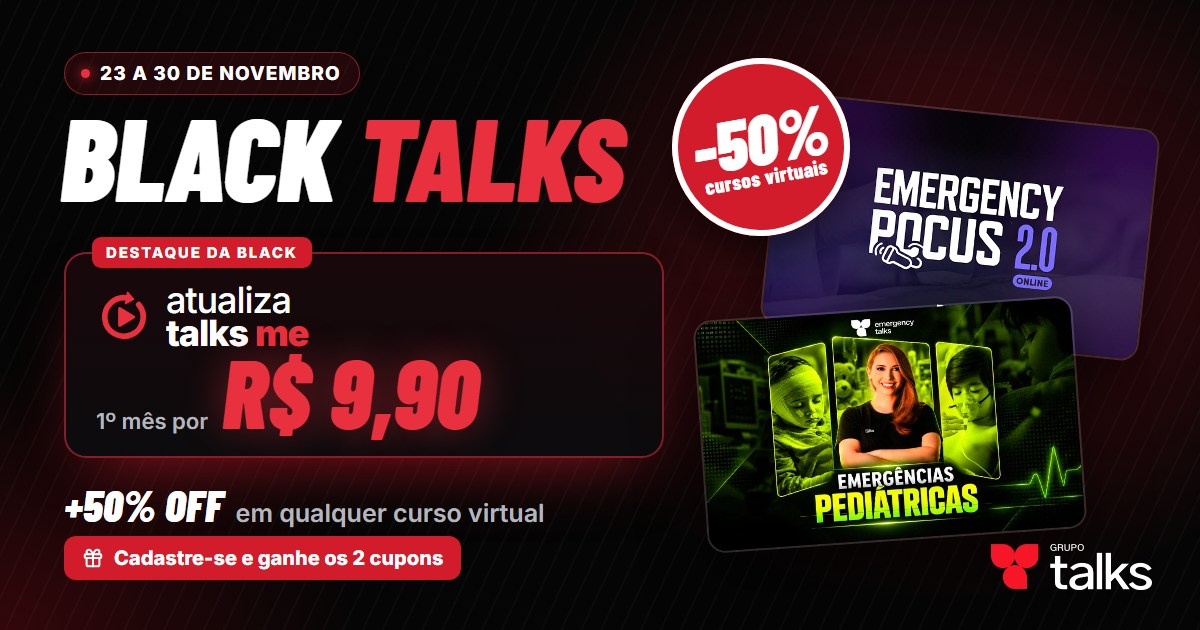
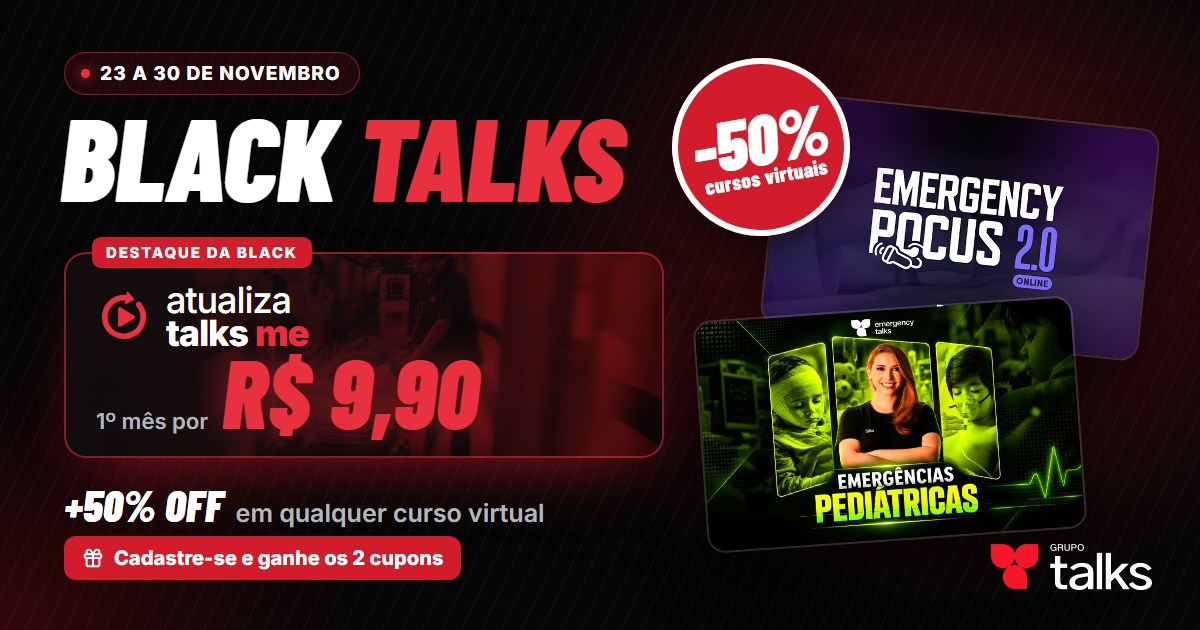
Foto do Atualiza Talks ME por trás de tudo que fala do Atualiza
Corredor de emergência em vermelho (img/atualiza-corredor.webp) no banner do
carrossel, na seção do Atualiza, no cupom do presente e do pop-up, na roleta
(seção, banner e topo do roleta.html) e nas imagens de compartilhamento.

Changed region(s): [[0.2467, 0.3921, 0.555, 0.7238], [0.185, 0.6937, 0.2158, 0.7238]]

diff --git a/index.html b/index.html
@@ -21,6 +21,8 @@
 <link href="https://fonts.googleapis.com/css2?family=Barlow+Condensed:ital,wght@0,600;0,700;0,800;0,900;1,800;1,900&family=Inter:wght@400;500;600;700;800&display=swap" rel="stylesheet" />
 <style>
 :root{
+  /* foto do Atualiza Talks ME (corredor de emergência em vermelho): vai por trás de tudo que fala do Atualiza */
+  --foto-at:url(img/atualiza-corredor.webp);
   --bg:#050505;
   --bg2:#0B0B0D;
   --surface:#121214;
@@ -179,7 +181,7 @@ body.ganhou .bar-cup{display:inline-flex}
 .car-dots button[aria-current=true]{width:28px;background:var(--red-hi)}
 
 /* banner do Atualiza Talks (feito em código, mesma proporção 700x430) */
-.atb{position:absolute;inset:0;container-type:inline-size;background:radial-gradient(120% 90% at 85% 50%,#4A0610 0%,#16070A 45%,#050505 75%);overflow:hidden}
+.atb{position:absolute;inset:0;container-type:inline-size;background:linear-gradient(90deg,rgba(5,5,5,.9) 0%,rgba(5,5,5,.62) 50%,rgba(5,5,5,.3) 100%),var(--foto-at) 60% 45%/cover no-repeat,#050505;overflow:hidden}
 .atb::before{content:'';position:absolute;inset:0;background:repeating-linear-gradient(115deg,rgba(255,255,255,.035) 0 2px,transparent 2px 18px)}
 .atb-in{position:absolute;inset:0;display:grid;grid-template-columns:1fr auto;align-items:center;gap:4cqw;padding:0 7cqw}
 .atb-brand{display:flex;align-items:center;gap:3cqw}
@@ -268,6 +270,7 @@ h2{font-family:var(--display);font-weight:900;font-style:italic;text-transform:u
 .tk-v span{font-size:1.5rem}
 .tk-v small{font-size:1.15rem;font-style:normal;font-weight:800;letter-spacing:.04em}
 .tk-r{display:flex;flex-direction:column;justify-content:center;gap:10px;padding:14px 18px 14px 20px;min-width:0}
+.tk-at .tk-r{background:linear-gradient(90deg,rgba(11,11,13,.95) 0%,rgba(11,11,13,.82) 55%,rgba(11,11,13,.5) 100%),var(--foto-at) 50% 42%/cover no-repeat}
 .tk-t b{display:block;color:#fff;font-weight:800;font-size:1.04rem;line-height:1.25}
 .tk-t span{display:block;margin-top:2px;color:var(--dim);font-size:.84rem;line-height:1.35}
 .tk-c{display:flex;align-items:center}
@@ -326,6 +329,7 @@ body.ganhou .tk{border-color:rgba(232,48,63,.6);box-shadow:0 20px 50px -24px rgb
 .prb-tk{display:grid;grid-template-columns:15cqw 1fr;height:13cqw;border-radius:2.4cqw;overflow:hidden;background:#0B0B0D;border:.3cqw solid rgba(255,255,255,.18);box-shadow:0 3cqw 6cqw rgba(0,0,0,.5)}
 .prb-tk:first-child{transform:rotate(-5deg) translateX(-2cqw)}
 .prb-tk:last-child{transform:rotate(3deg) translateX(2cqw)}
+.prb-tk:last-child > i{background:linear-gradient(90deg,rgba(11,11,13,.92) 0%,rgba(11,11,13,.6) 100%),var(--foto-at) 50% 42%/cover no-repeat}
 .prb-tk > span{display:flex;flex-direction:column;align-items:center;justify-content:center;background:linear-gradient(160deg,var(--red-hi),var(--red-deep));color:#fff;font-family:var(--display);font-weight:900;font-style:italic;line-height:.85;border-right:.4cqw dashed rgba(5,5,5,.55)}
 .prb-tk > span b{font-size:5.6cqw}
 .prb-tk > span small{font-size:2.3cqw;font-style:normal;font-weight:800}
@@ -355,9 +359,9 @@ body.ganhou .tk{border-color:rgba(232,48,63,.6);box-shadow:0 20px 50px -24px rgb
 /* destaque do Atualiza (vem antes dos cursos) */
 .at-sec{padding-top:clamp(50px,6vw,90px)}
 .at-sec .at-box{border:2px solid rgba(232,48,63,.65);padding-top:clamp(56px,6vw,76px);
-  background:radial-gradient(70% 90% at 100% 0%,rgba(211,28,43,.42),transparent 60%),radial-gradient(60% 80% at 0% 100%,rgba(158,10,22,.35),transparent 60%),linear-gradient(180deg,#151517,#0A0A0B);
+  background:linear-gradient(90deg,rgba(10,10,11,.94) 0%,rgba(10,10,11,.8) 45%,rgba(10,10,11,.42) 100%),var(--foto-at) 62% 45%/cover no-repeat,#0A0A0B;
   box-shadow:0 50px 120px -50px rgba(211,28,43,.75),0 0 0 8px rgba(211,28,43,.07)}
-.at-sec .at-box::after{width:520px;height:520px;right:-90px;bottom:-120px}
+.at-sec .at-box::after{display:none}
 .at-flag{position:absolute;top:0;left:50%;transform:translateX(-50%);display:inline-flex;align-items:center;gap:8px;padding:9px 20px;border-radius:0 0 14px 14px;background:var(--red);color:#fff;font-size:.8rem;font-weight:800;letter-spacing:.14em;text-transform:uppercase;white-space:nowrap;z-index:2}
 .at-flag .i{width:14px;height:14px}
 .at-sec .at-brand svg{width:64px;height:64px}
@@ -372,7 +376,7 @@ body.ganhou .tk{border-color:rgba(232,48,63,.6);box-shadow:0 20px 50px -24px rgb
 
 /* ===== Roleta ===== */
 .rl-box{position:relative;display:grid;grid-template-columns:minmax(0,1.1fr) minmax(0,.9fr);gap:clamp(28px,4vw,60px);align-items:center;padding:clamp(28px,4.4vw,60px);border-radius:28px;overflow:hidden;
-  background:radial-gradient(80% 110% at 85% 50%,rgba(211,28,43,.4),transparent 60%),linear-gradient(180deg,#141416,#0A0A0B);border:1px solid rgba(232,48,63,.35)}
+  background:linear-gradient(90deg,rgba(10,10,11,.92) 0%,rgba(10,10,11,.74) 50%,rgba(10,10,11,.55) 100%),var(--foto-at) 60% 45%/cover no-repeat,#0A0A0B;border:1px solid rgba(232,48,63,.35)}
 .rl-txt h2{font-size:clamp(2.3rem,4.4vw,3.8rem)}
 .rl-txt > p{margin-top:16px;color:var(--muted);font-size:1.05rem;max-width:34em}
 .rl-chips{display:flex;flex-wrap:wrap;gap:8px;margin:22px 0 26px}
@@ -393,7 +397,7 @@ body.ganhou .tk{border-color:rgba(232,48,63,.6);box-shadow:0 20px 50px -24px rgb
 .rl-l.b{animation-delay:.55s}
 @keyframes luz{50%{fill:#4A0610}}
 /* banner da roleta no carrossel */
-.rlb{position:absolute;inset:0;container-type:inline-size;background:radial-gradient(110% 100% at 20% 50%,#5A0812 0%,#1A0609 45%,#050505 80%);overflow:hidden}
+.rlb{position:absolute;inset:0;container-type:inline-size;background:linear-gradient(270deg,rgba(5,5,5,.9) 0%,rgba(5,5,5,.62) 50%,rgba(5,5,5,.45) 100%),var(--foto-at) 45% 45%/cover no-repeat,#050505;overflow:hidden}
 .rlb::before{content:'';position:absolute;inset:0;background:repeating-linear-gradient(115deg,rgba(255,255,255,.035) 0 2px,transparent 2px 18px)}
 .rlb-w{position:absolute;left:-12cqw;top:50%;width:66cqw;height:66cqw;margin-top:-33cqw;animation:spin 22s linear infinite;filter:drop-shadow(0 0 4cqw rgba(232,48,63,.45))}
 .rlb-w svg{width:100%;height:100%;display:block}
@@ -532,6 +536,7 @@ body.ganhou .tk{border-color:rgba(232,48,63,.6);box-shadow:0 20px 50px -24px rgb
 .mtk{display:grid;grid-template-columns:104px minmax(0,1fr);align-items:stretch;min-height:66px;border-radius:14px;overflow:hidden;background:#0B0B0D;border:1px solid rgba(232,48,63,.5);text-align:left}
 .mtk b{display:flex;align-items:center;justify-content:center;gap:6px;background:linear-gradient(160deg,var(--red-hi),var(--red-deep));color:#fff;font-family:var(--display);font-weight:900;font-style:italic;font-size:1.7rem;line-height:.9;border-right:2px dashed rgba(5,5,5,.55)}
 .mtk > span{display:flex;flex-direction:column;justify-content:center;padding:8px 14px;color:#fff;font-weight:700;font-size:.92rem;line-height:1.25}
+.mtk-at > span{background:linear-gradient(90deg,rgba(11,11,13,.94) 0%,rgba(11,11,13,.62) 100%),var(--foto-at) 50% 42%/cover no-repeat}
 .mtk > span i{display:inline-flex;align-items:center;gap:5px;margin-top:3px;font-style:normal;font-weight:600;font-size:.74rem;color:var(--dim)}
 .mtk > span i .i{color:var(--red-text)}
 .gm-no{display:block;margin:12px auto 0;padding:6px 12px;font-size:.86rem;font-weight:600;color:var(--dim);text-decoration:underline;text-underline-offset:3px}
@@ -568,7 +573,9 @@ body.ganhou .tk{border-color:rgba(232,48,63,.6);box-shadow:0 20px 50px -24px rgb
   .hero-cta{justify-content:center}
   .car-nav{opacity:1}
   .at-box{grid-template-columns:minmax(0,1fr)}
+  .at-sec .at-box{background:linear-gradient(180deg,rgba(10,10,11,.55) 0%,rgba(10,10,11,.86) 38%,rgba(10,10,11,.94) 100%),var(--foto-at) 60% 0/auto 520px no-repeat,#0A0A0B}
   .rl-box{grid-template-columns:minmax(0,1fr)}
+  .rl-box{background:linear-gradient(180deg,rgba(10,10,11,.6) 0%,rgba(10,10,11,.86) 45%,rgba(10,10,11,.94) 100%),var(--foto-at) 55% 0/auto 520px no-repeat,#0A0A0B}
   .rl-mini{width:min(86%,340px);grid-row:1}
   .pr-box{grid-template-columns:minmax(0,1fr)}
   .pr-l{text-align:center}
@@ -802,7 +809,7 @@ body.ganhou .tk{border-color:rgba(232,48,63,.6);box-shadow:0 20px 50px -24px rgb
               </div>
             </div>
           </div>
-          <div class="tk">
+          <div class="tk tk-at">
             <div class="tk-v"><small>R$</small><b data-at-preco>9,90</b><small>1º mês</small></div>
             <div class="tk-r">
               <div class="tk-t"><b>no Atualiza Talks ME</b><span>Medicina de Emergência atualizada o ano todo</span></div>
@@ -1091,7 +1098,7 @@ body.ganhou .tk{border-color:rgba(232,48,63,.6);box-shadow:0 20px 50px -24px rgb
       <h2 class="pop2">2 cupons <span class="red">para você</span></h2>
       <div class="gm-tks pop3">
         <div class="mtk"><b><span data-desc>50%</span> OFF</b><span>em qualquer curso virtual<i><svg class="i"><use href="#i-lock"/></svg>Liberado no cadastro</i></span></div>
-        <div class="mtk"><b>R$ 9,90</b><span>no 1º mês do Atualiza Talks ME<i><svg class="i"><use href="#i-lock"/></svg>Liberado no cadastro</i></span></div>
+        <div class="mtk mtk-at"><b>R$ 9,90</b><span>no 1º mês do Atualiza Talks ME<i><svg class="i"><use href="#i-lock"/></svg>Liberado no cadastro</i></span></div>
       </div>
       <p class="gm-d pop3">Para liberar, é só um cadastro rápido: <b>nome, e-mail e WhatsApp</b>.</p>
       <a class="btn btn-red btn-block pop3" href="#presente" data-go-presente style="margin-top:18px">Liberar meus cupons <svg class="i i-arrow"><use href="#i-arrow"/></svg></a>

diff --git a/fontes/og.html b/fontes/og.html
@@ -26,7 +26,9 @@ body{font-family:var(--body);color:#fff;-webkit-font-smoothing:antialiased}
 /* ===== Black ===== */
 .b-chip{left:64px;top:52px}
 .b-t{left:60px;top:106px;font-size:118px;letter-spacing:-.005em}
-.b-box{left:64px;top:252px;width:600px;height:206px;border-radius:22px;border:2px solid rgba(232,48,63,.55);background:linear-gradient(180deg,rgba(26,8,11,.95),rgba(12,12,14,.95));box-shadow:0 30px 70px -30px rgba(211,28,43,.7)}
+/* foto do Atualiza Talks ME por trás do cartão do Atualiza e da arte da roleta */
+#roleta.og{background:linear-gradient(90deg,rgba(5,5,5,.9) 0%,rgba(5,5,5,.68) 50%,rgba(5,5,5,.5) 100%),url(../img/atualiza-corredor.webp) 60% 45%/cover no-repeat,#050505}
+.b-box{left:64px;top:252px;width:600px;height:206px;border-radius:22px;border:2px solid rgba(232,48,63,.55);background:linear-gradient(90deg,rgba(12,12,14,.95) 0%,rgba(12,12,14,.8) 50%,rgba(12,12,14,.45) 100%),url(../img/atualiza-corredor.webp) 55% 42%/cover no-repeat,#0c0c0e;box-shadow:0 30px 70px -30px rgba(211,28,43,.7)}
 .b-flag{position:absolute;left:26px;top:-17px;padding:6px 14px;border-radius:9px;background:var(--red);font-size:15px;font-weight:800;letter-spacing:.12em;text-transform:uppercase}
 .b-at{position:absolute;left:30px;top:30px;display:flex;align-items:center;gap:14px}
 .b-at svg{width:56px;height:56px;color:var(--red-hi)}

diff --git a/roleta.html b/roleta.html
@@ -83,7 +83,9 @@ body[data-fase=fim] [data-show]:not([data-show~=fim]){display:none!important}
 .by img{height:28px;width:auto}
 
 /* hero */
-.hero{position:relative;padding:10px 0 80px;overflow:hidden}
+.hero{position:relative;padding:10px 0 80px;overflow:hidden;
+  /* foto do Atualiza Talks ME (os prêmios da roleta são do Atualiza) */
+  background:linear-gradient(90deg,rgba(5,5,5,.9) 0%,rgba(5,5,5,.66) 50%,rgba(5,5,5,.5) 100%),linear-gradient(180deg,rgba(5,5,5,.2) 60%,var(--bg) 100%),url(img/atualiza-corredor.webp) 60% 40%/cover no-repeat}
 .hero::before{content:'';position:absolute;right:-12%;top:-8%;width:72vw;height:72vw;max-width:980px;max-height:980px;border-radius:50%;background:radial-gradient(circle,rgba(211,28,43,.32),rgba(211,28,43,0) 62%);pointer-events:none}
 .hero-in{display:grid;grid-template-columns:minmax(0,1fr) minmax(0,1fr);grid-template-areas:"t w" "p w";column-gap:clamp(28px,5vw,80px);align-items:center}
 .h-t{grid-area:t;align-self:end}

diff --git a/README.md b/README.md
@@ -73,3 +73,10 @@ janela anônima.
 
 `img/og-black-talks.jpg` e `img/og-roleta.jpg` são geradas a partir de `fontes/og.html` com
 `fontes/gerar-og.ps1` (Edge em modo headless). Mudou preço ou texto? Edite o HTML e rode o script.
+
+## Foto do Atualiza Talks ME
+
+`img/atualiza-corredor.webp` (corredor de emergência em vermelho) vai por trás de tudo que fala do Atualiza:
+banner do Atualiza e da roleta no carrossel do topo, seção `#atualiza`, cupom do Atualiza no presente e no pop-up,
+seção da roleta, topo do `roleta.html` e as imagens de compartilhamento. No `index.html` ela entra pela variável
+CSS `--foto-at` (no `:root`): para trocar a foto, substitua o arquivo ou mude a variável.
